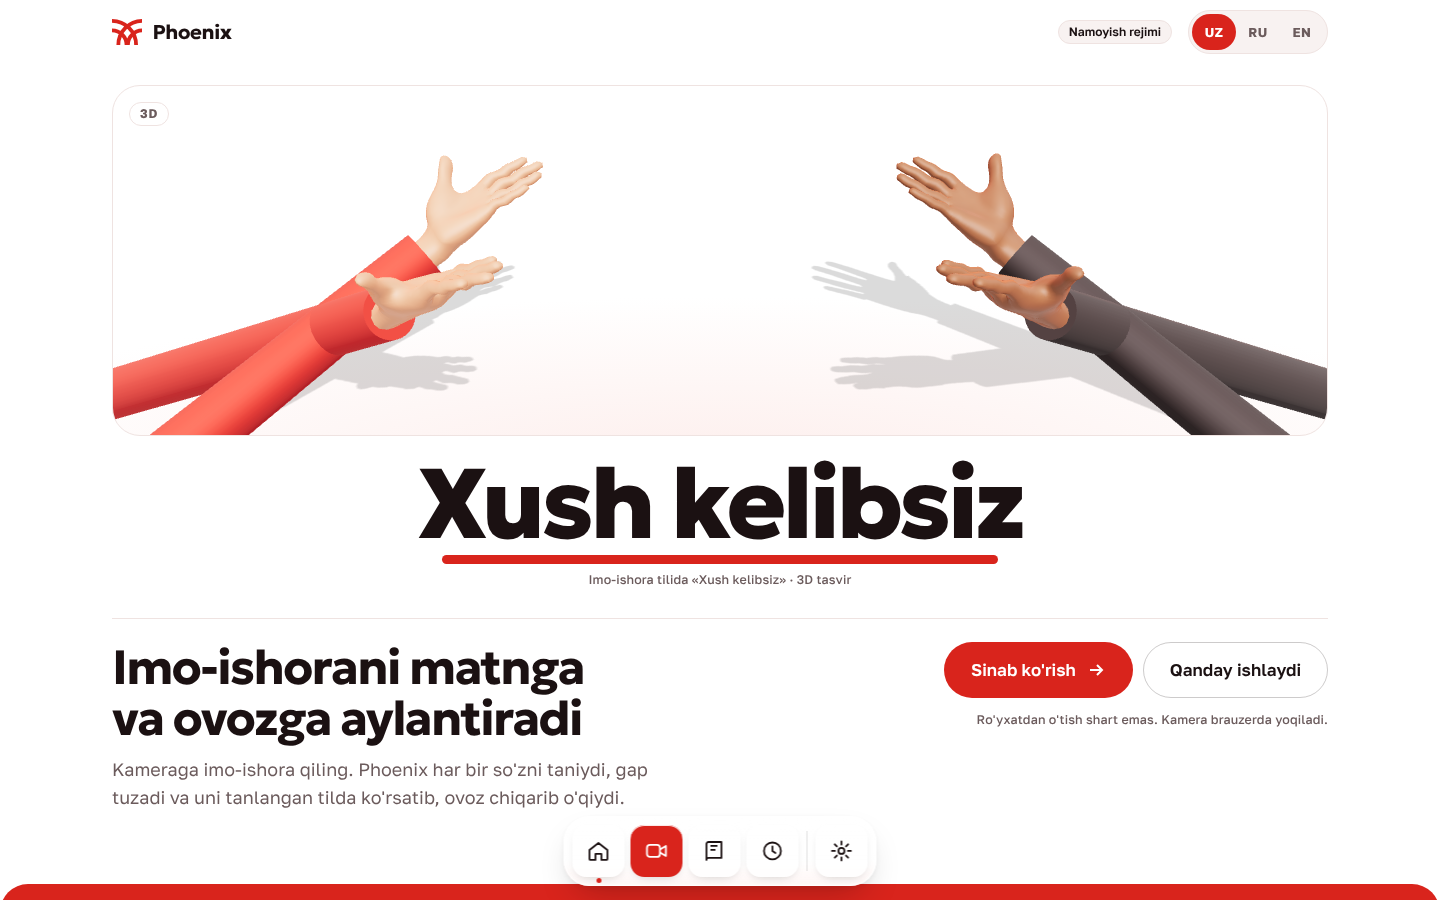
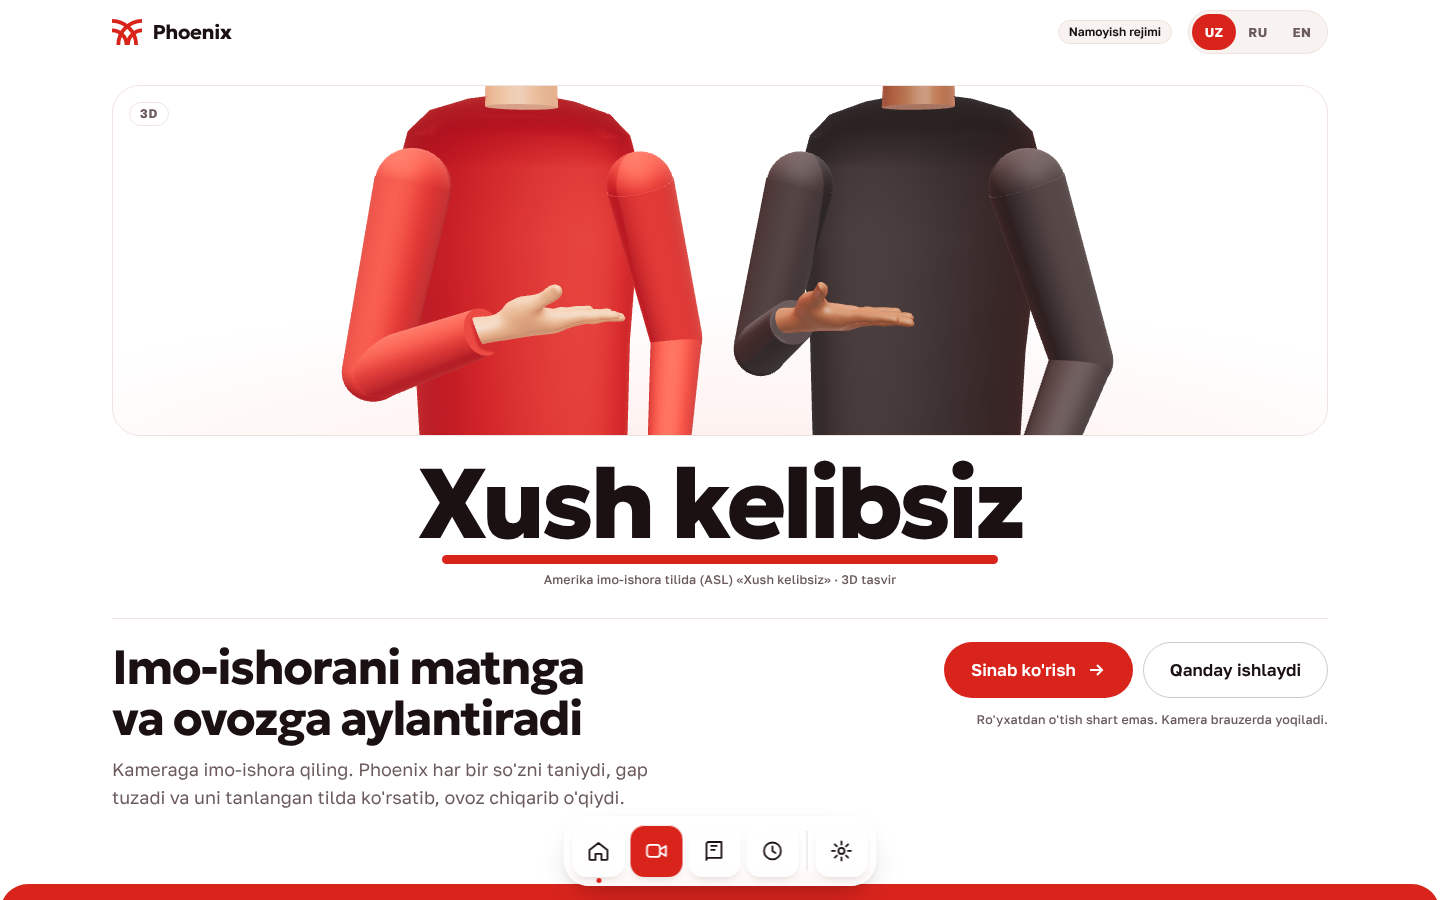
feat(frontend): hero hands sign real ASL WELCOME
One flat B hand sweeps from beside the chest, palm across, in a large arc to
the centre of the chest, palm up (Lifeprint, Wiktionary). Two signers seen
from the front, cropped at the neck, take turns. Two-bone arms, refreshed
no-WebGL still, ASL named in the caption in all three languages.

Changed region(s): [[0.0625, 0.0933, 0.9375, 0.4978], [0.375, 0.6222, 0.625, 0.6533]]

diff --git a/frontend/js/hero-hands.js b/frontend/js/hero-hands.js
@@ -1,8 +1,8 @@
 // Landing hero: two people's hands signing "welcome", rendered in 3D.
 // Skinned hand meshes from the WebXR Input Profiles "generic-hand" asset (MIT, © Amazon, assets/hands/LICENSE.md),
 // lit and posed here with three.js. It is a render, and the page labels it as one.
-// The gesture: open hands, palms up, start toward the guest and sweep back toward the signer's own body,
-// the shared shape of "welcome" in Russian and American Sign Language. Person A signs, then person B answers.
+// The gesture is the ASL sign WELCOME (see KEY below): one flat hand sweeps from out in front, palm across,
+// in to the chest, palm up. Person A signs it, then person B answers with the same sign.
 import * as THREE from 'three';
 import { GLTFLoader } from '../vendor/three/addons/loaders/GLTFLoader.js';
 import { clone as cloneSkinned } from '../vendor/three/addons/utils/SkeletonUtils.js';
@@ -10,7 +10,7 @@ import { RoomEnvironment } from '../vendor/three/addons/environments/RoomEnviron
 import { RM } from './motion.js';
 
 const FINGERS = ['index', 'middle', 'ring', 'pinky'];
-const CYCLE = 6.4;                      // seconds: A signs, B signs, both rest
+const CYCLE = 7;                        // seconds: A signs, B answers, both rest
 const ease = t => (t < .5 ? 4 * t * t * t : 1 - (-2 * t + 2) ** 3 / 2);
 const clamp01 = t => Math.min(1, Math.max(0, t));
 const v3 = (a) => new THREE.Vector3().fromArray(a);
@@ -76,15 +76,19 @@ function rigHand(src, isLeft, skin) {
   };
 }
 
-/** A sleeve from the wrist back toward the elbow, so the hands belong to people. */
-function sleeve(color) {
-  const len = 1.7;
-  const g = new THREE.CylinderGeometry(.056, .034, len, 40, 1, false);
-  g.rotateZ(Math.PI / 2);
-  g.translate(-len / 2 - .012, 0, 0);
-  const cuff = new THREE.Mesh(g, new THREE.MeshPhysicalMaterial({ color, roughness: .82, sheen: .35, sheenRoughness: .7, sheenColor: new THREE.Color(color).lerp(new THREE.Color('#ffffff'), .25) }));
-  cuff.castShadow = true;
-  return cuff;
+/** A tapered tube between two points (forearm, upper arm), re-aimed every frame. */
+function limb(color, r0, r1) {
+  const g = new THREE.CylinderGeometry(r1, r0, 1, 32, 1, false);  // top = far end, bottom = near end
+  g.translate(0, .5, 0);
+  const m = new THREE.Mesh(g, new THREE.MeshPhysicalMaterial({ color, roughness: .82, sheen: .35, sheenRoughness: .7, sheenColor: new THREE.Color(color).lerp(new THREE.Color('#ffffff'), .25) }));
+  m.castShadow = true; m.receiveShadow = true;
+  const up = new THREE.Vector3(0, 1, 0), d = new THREE.Vector3();
+  m.aim = (a, b) => {
+    d.subVectors(b, a); const len = d.length();
+    m.position.copy(a); m.scale.set(1, len, 1);
+    m.quaternion.setFromUnitVectors(up, d.divideScalar(len));
+  };
+  return m;
 }
 
 function skinMaterial(hex) {
@@ -95,45 +99,107 @@ function skinMaterial(hex) {
   });
 }
 
-/**
- * A person = two hands plus sleeves. dir = +1 faces right (person stands on the left), -1 faces left.
- * pose(p): p=0 hands offered toward the other person, p=1 drawn back to the signer's own body.
+// Person-local space: +x forward (toward the other person), +y up, +z the signer's right.
+const P = (fwd, up, right) => new THREE.Vector3(fwd, up, right);
+const D = (fwd, up, right) => new THREE.Vector3(fwd, up, right).normalize();
+
+/*
+ * ASL WELCOME (one-handed): the dominant hand in the flat "B" handshape starts about half an arm's
+ * length in front of and beside the chest, palm facing across, and sweeps in a large horizontal arc
+ * to the centre of the chest, ending palm up. Sources: Lifeprint (ASL University) "WELCOME";
+ * Wiktionary ASL entry OpenB@DistalSideChesthigh-PalmAcross ... OpenB@NearCenterTrunkhigh-PalmUp.
+ * F = finger direction, N = palm normal, k = finger curl (0 = flat B).
  */
-function person(hands, dir, skinHex, sleeveHex) {
+const KEY = {
+  rest:  { p: P(.07, -.21, .20),  F: D(.25, -1, -.05),  N: D(-.15, 0, -1),  k: .45 },
+  start: { p: P(.38, .06, .28),   F: D(1, .08, -.42),   N: D(.25, .15, -1), k: 0 },
+  end:   { p: P(.21, .07, .115),  F: D(.25, .05, -1),   N: D(0, 1, 0),      k: 0 }
+};
+const SWEEP_CTRL = P(.40, .09, .12);         // pulls the path outward so the hand travels a round arc
+const LEFT_REST = { p: P(.07, -.22, -.20), F: D(.25, -1, .05), N: D(-.15, 0, 1), k: .45 };
+const SHOULDER_R = P(-.01, .27, .185), SHOULDER_L = P(-.01, .27, -.185);
+const UPPER = .29, FORE = .26;
+
+function orient(F, N) {
+  const f = F.clone().normalize();
+  const n = N.clone().sub(f.clone().multiplyScalar(N.dot(f))).normalize();
+  const t = new THREE.Vector3().crossVectors(f, n);
+  return new THREE.Quaternion().setFromRotationMatrix(new THREE.Matrix4().makeBasis(f, n, t));
+}
+for (const k of [KEY.rest, KEY.start, KEY.end, LEFT_REST]) k.q = orient(k.F, k.N);
+
+/** Two-bone arm: elbow from shoulder S and wrist W, bending down and out to the side. */
+function elbowFor(S, W, out) {
+  const sw = new THREE.Vector3().subVectors(W, S);
+  const d = Math.min(sw.length(), UPPER + FORE - 1e-3);
+  sw.normalize();
+  const a = (UPPER * UPPER - FORE * FORE + d * d) / (2 * d);
+  const h = Math.sqrt(Math.max(0, UPPER * UPPER - a * a));
+  const pole = P(-.35, -1, .45 * out).normalize();
+  pole.sub(sw.clone().multiplyScalar(pole.dot(sw))).normalize();
+  return S.clone().addScaledVector(sw, a).addScaledVector(pole, h);
+}
+
+/** A person: right hand signs, left hand rests. Placed with its forward axis toward the other person. */
+function person(hands, skinHex, sleeveHex) {
   const skin = skinMaterial(skinHex);
   const group = new THREE.Group();
-  const parts = ['right', 'left'].map(side => {
-    const isLeft = side === 'left';
-    const h = rigHand(hands[side], isLeft, skin);
-    h.pivot.add(sleeve(sleeveHex));
-    group.add(h.pivot);
-    // facing +x, the right hand is on +z (near the camera); facing -x it is on -z
-    const zSide = (isLeft ? -1 : 1) * dir;
-    return { h, zSide, isLeft };
-  });
+  // Torso, cropped by the frame above the shoulders: the scene is about the hands, not faces.
+  const cloth = limb(sleeveHex, .05, .05).material;
+  // a lathe profile (radius, height): sloped shoulders, chest, waist; flattened front to back
+  const prof = [[0, .425], [.09, .41], [.15, .39], [.185, .355], [.2, .3], [.198, .18], [.182, 0], [.172, -.3], [.176, -1.3], [0, -1.3]]
+    .map(([r, y]) => new THREE.Vector2(r, y));
+  const torso = new THREE.Mesh(new THREE.LatheGeometry(prof, 48), cloth);
+  torso.scale.set(.58, 1, 1);
+  torso.position.x = -.07;
+  torso.castShadow = torso.receiveShadow = true;
+  const neck = new THREE.Mesh(new THREE.CylinderGeometry(.052, .06, .2, 32), skin);
+  neck.position.set(-.075, .5, 0);
+  group.add(neck);
+  group.add(torso);
+  const joint = r => { const m = new THREE.Mesh(new THREE.SphereGeometry(r, 24, 16), cloth); m.castShadow = m.receiveShadow = true; group.add(m); return m; };
+  const arm = (side, S, out) => {
+    const h = rigHand(hands[side], side === 'left', skin);
+    const fore = limb(sleeveHex, .034, .046), upper = limb(sleeveHex, .047, .058);
+    const elbow = joint(.047), shoulder = joint(.057);
+    shoulder.position.copy(S);
+    group.add(h.pivot, fore, upper);
+    return {
+      set(p, q, k) {
+        h.pivot.position.copy(p); h.pivot.quaternion.copy(q); h.shape(k);
+        // the cuff starts a little behind the wrist, along the forearm
+        const E = elbowFor(S, p, out);
+        const W = p.clone().lerp(E, .05);
+        fore.aim(W, E); upper.aim(E, S); elbow.position.copy(E);
+      }
+    };
+  };
+  const right = arm('right', SHOULDER_R, 1), left = arm('left', SHOULDER_L, -1);
+  const tmpQ = new THREE.Quaternion(), tmpP = new THREE.Vector3();
+  const bez = (a, c, b, s) => {
+    const u = 1 - s;
+    return tmpP.set(0, 0, 0).addScaledVector(a, u * u).addScaledVector(c, 2 * u * s).addScaledVector(b, s * s);
+  };
   return {
     group,
-    pose(p, breathe) {
-      parts.forEach(({ h, zSide }, i) => {
-        const e = p;
-        const lag = i * .06;
-        const q = clamp01((e - lag) / (1 - lag));
-        // wrist path: forward and low -> close to the body and a little higher
-        const x = dir * THREE.MathUtils.lerp(-.13, -.33, q);
-        const y = THREE.MathUtils.lerp(-.02, .035, Math.sin(q * Math.PI / 2)) + breathe * .004;
-        const z = zSide * THREE.MathUtils.lerp(.11, .085, q);
-        h.pivot.position.set(x, y, z);
-        // fingers point toward the guest at the start, then turn inward and up as the hand comes home
-        const yaw = dir > 0 ? 0 : Math.PI;
-        const inward = THREE.MathUtils.lerp(.18, .62, q) * zSide * -1 * dir;
-        const lift = THREE.MathUtils.lerp(.22, .48, q);
-        const roll = zSide * dir * THREE.MathUtils.lerp(.12, .04, q);
-        h.pivot.rotation.set(0, 0, 0);
-        h.pivot.rotateY(yaw + inward);
-        h.pivot.rotateZ(lift);
-        h.pivot.rotateX(roll * (dir > 0 ? 1 : -1));
-        h.shape(THREE.MathUtils.lerp(.15, .55, q));
-      });
+    /** stage: 0 rest -> 1 start (raise) -> 2 end (the sign) -> 3 rest again. */
+    pose(stage, breathe) {
+      const b = breathe * .003;
+      let p, q, k;
+      if (stage <= 1) {
+        const s = ease(clamp01(stage));
+        p = tmpP.copy(KEY.rest.p).lerp(KEY.start.p, s); q = tmpQ.copy(KEY.rest.q).slerp(KEY.start.q, s);
+        k = THREE.MathUtils.lerp(KEY.rest.k, 0, s);
+      } else if (stage <= 2) {
+        const s = ease(stage - 1);
+        p = bez(KEY.start.p, SWEEP_CTRL, KEY.end.p, s); q = tmpQ.copy(KEY.start.q).slerp(KEY.end.q, s); k = 0;
+      } else {
+        const s = ease(clamp01(stage - 2));
+        p = tmpP.copy(KEY.end.p).lerp(KEY.rest.p, s); q = tmpQ.copy(KEY.end.q).slerp(KEY.rest.q, s);
+        k = THREE.MathUtils.lerp(0, KEY.rest.k, s);
+      }
+      right.set(p.clone().setY(p.y + b), q, k);
+      left.set(LEFT_REST.p.clone().setY(LEFT_REST.p.y + b), LEFT_REST.q, LEFT_REST.k);
     }
   };
 }
@@ -158,34 +224,27 @@ export async function initHeroHands(stage) {
   scene.environment = pmrem.fromScene(new RoomEnvironment(), .04).texture;
 
   const key = new THREE.DirectionalLight('#fff4ee', 2.2);
-  key.position.set(.6, 1.6, 1.1);
+  key.position.set(.5, 1.4, 1.6);
   key.castShadow = true;
   key.shadow.mapSize.set(1024, 1024);
-  Object.assign(key.shadow.camera, { left: -.7, right: .7, top: .5, bottom: -.5, near: .1, far: 4 });
+  Object.assign(key.shadow.camera, { left: -.9, right: .9, top: .7, bottom: -.7, near: .1, far: 5 });
   key.shadow.radius = 6;
   scene.add(key);
   const rim = new THREE.DirectionalLight('#ff6a55', 1.4);
-  rim.position.set(-1, .6, -1.2);
+  rim.position.set(-1.2, .8, -.6);
   scene.add(rim);
   scene.add(new THREE.HemisphereLight('#ffffff', '#f2d6d2', .6));
 
-  const floor = new THREE.Mesh(new THREE.PlaneGeometry(3, 3), new THREE.ShadowMaterial({ opacity: .14 }));
-  floor.rotation.x = -Math.PI / 2;
-  floor.position.y = -.12;
-  floor.receiveShadow = true;
-  scene.add(floor);
-
   const camera = new THREE.PerspectiveCamera(30, 16 / 9, .05, 10);
-  camera.position.set(0, .62, 1.12);
-  camera.lookAt(0, .05, -.02);
 
   const gltf = new GLTFLoader();
   const [L, R] = await Promise.all(['left', 'right'].map(s => gltf.loadAsync(`assets/hands/${s}.glb`)));
   const hands = { left: L.scene, right: R.scene };
-  const A = person(hands, 1, '#c98462', '#a8100b');     // stands on the left, red sleeves
-  const B = person(hands, -1, '#7a4a30', '#2a1d1e');    // stands on the right, dark sleeves
-  A.group.position.x = -.06;
-  B.group.position.x = .06;
+  const A = person(hands, '#c98462', '#a8100b');     // stands on the left, faces right, red sleeves
+  const B = person(hands, '#7a4a30', '#2a1d1e');     // stands on the right, faces left, dark sleeves
+  // Both face the viewer, each turned a little toward the other, like two signers in one frame.
+  A.group.position.set(-.3, 0, 0); A.group.rotation.y = -Math.PI / 2 + .42;
+  B.group.position.set(.3, 0, 0);  B.group.rotation.y = -Math.PI / 2 - .42;
   scene.add(A.group, B.group);
 
   stage.prepend(renderer.domElement);
@@ -196,30 +255,33 @@ export async function initHeroHands(stage) {
     if (!w || !h) return;
     renderer.setSize(w, h, false);
     camera.aspect = w / h;
-    // frame a fixed width of the scene, so both people fit on wide and on tall (phone) frames
-    const halfW = Math.tan(THREE.MathUtils.degToRad(w / h < 1.5 ? 17 : 27));
-    camera.fov = Math.max(20, THREE.MathUtils.radToDeg(2 * Math.atan(halfW / camera.aspect)));
+    // Frame a fixed width (both people with their reach), and keep the top edge just above the shoulders,
+    // so a tall phone frame shows more torso, never empty space where heads would be.
+    const dist = 1.6, halfW = camera.aspect < 1.5 ? .76 : .98, halfH = halfW / camera.aspect;
+    camera.fov = THREE.MathUtils.radToDeg(2 * Math.atan(halfH / dist));
+    const cy = .43 - halfH;
+    camera.position.set(0, cy + .12, dist);
+    camera.lookAt(0, cy, 0);
     camera.updateProjectionMatrix();
   }
   new ResizeObserver(resize).observe(stage);
   resize();
 
-  // A signs (0.0-1.6 s), holds, B signs (1.9-3.5 s), both hold, then both lower back to the offered pose.
+  // Per person: raise (0.5 s), sign (1.3 s), hold (0.9 s), lower (0.7 s). A starts at 0.2 s, B answers at 2.9 s.
+  const stageAt = c => (c < 0 ? 0 : c < .5 ? c / .5 : c < 1.8 ? 1 + (c - .5) / 1.3 : c < 2.7 ? 2 : c < 3.4 ? 2 + (c - 2.7) / .7 : 3);
   function poseAt(t) {
-    const c = t % CYCLE;
-    const a = c < 4.6 ? ease(clamp01(c / 1.6)) : 1 - ease(clamp01((c - 4.6) / 1.4));
-    const b = c < 4.6 ? ease(clamp01((c - 1.9) / 1.6)) : 1 - ease(clamp01((c - 4.6) / 1.4));
-    const br = Math.sin(t * 1.6);
-    A.pose(a, br); B.pose(b, -br);
+    const c = t % CYCLE, br = Math.sin(t * 1.6);
+    A.pose(stageAt(c - .2), br); B.pose(stageAt(c - 2.9), -br);
   }
-
   let visible = true, raf = 0, t0 = performance.now();
   const frame = now => {
     poseAt((now - t0) / 1000);
     renderer.render(scene, camera);
     raf = visible ? requestAnimationFrame(frame) : 0;
   };
-  if (RM) { A.pose(1, 0); B.pose(1, 0); renderer.render(scene, camera); return; }
+  // test hook: freeze at a time (used by screenshots)
+  window.__phxHands = t => { visible = false; cancelAnimationFrame(raf); raf = 0; if (t === 'end') { A.pose(2, 0); B.pose(2, 0); } else poseAt(t); renderer.render(scene, camera); };
+  if (RM) { A.pose(2, 0); B.pose(2, 0); renderer.render(scene, camera); return; }
   new IntersectionObserver(([e]) => {
     visible = e.isIntersecting;
     if (visible && !raf) raf = requestAnimationFrame(frame);
@@ -229,6 +291,4 @@ export async function initHeroHands(stage) {
     if (visible && !raf) raf = requestAnimationFrame(frame);
   });
   raf = requestAnimationFrame(frame);
-  // test hook: freeze at a time (used by screenshots)
-  window.__phxHands = t => { visible = false; cancelAnimationFrame(raf); raf = 0; poseAt(t); renderer.render(scene, camera); };
 }

diff --git a/frontend/js/i18n.js b/frontend/js/i18n.js
@@ -42,8 +42,8 @@ const D = {
   'hero.how': ['Qanday ishlaydi', 'Как это работает', 'How it works'],
   'hero.note': ["Ro'yxatdan o'tish shart emas. Kamera brauzerda yoqiladi.", 'Регистрация не нужна. Камера включается в браузере.', 'No sign-up. The camera turns on in your browser.'],
   'hero.welcome': ['Xush kelibsiz', 'Добро пожаловать', 'Welcome'],
-  'hero.welcomeSign': ['Imo-ishora tilida «Xush kelibsiz» · 3D tasvir', '«Добро пожаловать» на жестовом языке · 3D-визуализация', '"Welcome" in sign language · 3D render'],
-  'hero.videoAria': ['Ikki kishining qo\'llari imo-ishora tilida «Xush kelibsiz» deydi, 3D tasvir', 'Руки двух людей показывают «Добро пожаловать» на жестовом языке, 3D-визуализация', 'Two people\'s hands sign "Welcome", a 3D render'],
+  'hero.welcomeSign': ['Amerika imo-ishora tilida (ASL) «Xush kelibsiz» · 3D tasvir', '«Добро пожаловать» на американском жестовом языке (ASL) · 3D-визуализация', '"Welcome" in American Sign Language (ASL) · 3D render'],
+  'hero.videoAria': ['Ikki kishi navbat bilan ASL tilida «Xush kelibsiz» belgisini ko\'rsatadi: tekis kaft yondan ko\'krakka, kaft yuqoriga qarab keladi. 3D tasvir', 'Два человека по очереди показывают жест ASL «Добро пожаловать»: ровная ладонь движется сбоку к груди, ладонью вверх. 3D-визуализация', 'Two people take turns signing ASL WELCOME: a flat hand sweeps in from the side to the chest, palm up. A 3D render'],
 
   'story.title': ['Bir suhbat, besh lahza', 'Один разговор, пять моментов', 'One conversation, five moments'],
   'story.s1.t': ['Odam kameraga imo-ishora qiladi', 'Человек показывает жесты в камеру', 'A person signs to the camera'],

diff --git a/frontend/assets/hands/README.md b/frontend/assets/hands/README.md
@@ -1,6 +1,14 @@
 # 3D hands (landing hero)
 
 - `left.glb`, `right.glb`: "generic-hand" from WebXR Input Profiles (`@webxr-input-profiles/assets` 1.0.20, npm), MIT License, © 2019 Amazon. See `LICENSE.md`. Unmodified files.
-- `still.webp`: a frame rendered from these models by `js/hero-hands.js` (three.js) at t = 3.6 s, used only when the browser has no WebGL.
+- `still.webp`: a frame rendered from these models by `js/hero-hands.js` (three.js) with both signers at the end of the sign, used only when the browser has no WebGL.
 
 The hands are a 3D render, not footage, and the page says so ("3D" tag and caption).
+
+## The sign
+
+The animation is the **ASL sign WELCOME**, one-handed: the dominant hand in the flat "B" handshape starts about half an arm's length in front of and beside the chest, palm facing across, and sweeps in a large horizontal arc to the centre of the chest, ending palm up. Person A signs it, then person B answers. The bodies (sweaters, cropped at the neck) are simple shapes drawn in code, so the hands have someone to belong to.
+
+Sources: [Lifeprint, ASL University: WELCOME](https://lifeprint.com/asl101/pages-signs/w/welcome.htm); [Wiktionary ASL entry](https://en.wiktionary.com/wiki/OpenB@DistalSideChesthigh-PalmAcross_RoundVert_OpenB@DistalInsideTrunkhigh-PalmUp_RoundHoriz_OpenB@NearCenterTrunkhigh-PalmUp) (start: open B, beside the chest, palm across; end: open B, centre of the chest, palm up).
+
+ASL was chosen because its WELCOME is documented precisely in open sources. A verified Russian Sign Language description of "ДОБРО ПОЖАЛОВАТЬ" was not found.

diff --git a/CHANGELOG.md b/CHANGELOG.md
@@ -13,6 +13,7 @@ Har bir versiyada nima qo'shilgani va o'zgargani. Sanalar 2026 yil.
 
 ### O'zgardi
 - Brauzer yorlig'idagi logo qizil (oldin eski yashil rang edi).
+- Bosh sahifadagi 3D qo'llar endi haqiqiy **ASL WELCOME** belgisini ko'rsatadi: tekis kaft (B shakli) yondan, kaft yon tomonga qarab, katta yoy bilan ko'krak markaziga keladi va kaft yuqoriga qaraydi. Ikki kishi navbat bilan, oldidan ko'rinib turadi (sviterli gavda, bo'yindan kesilgan). Manba: Lifeprint (ASL University), Wiktionary.
 
 ## 2026-11-25: yangi dizayn (oq va qizil)
 
